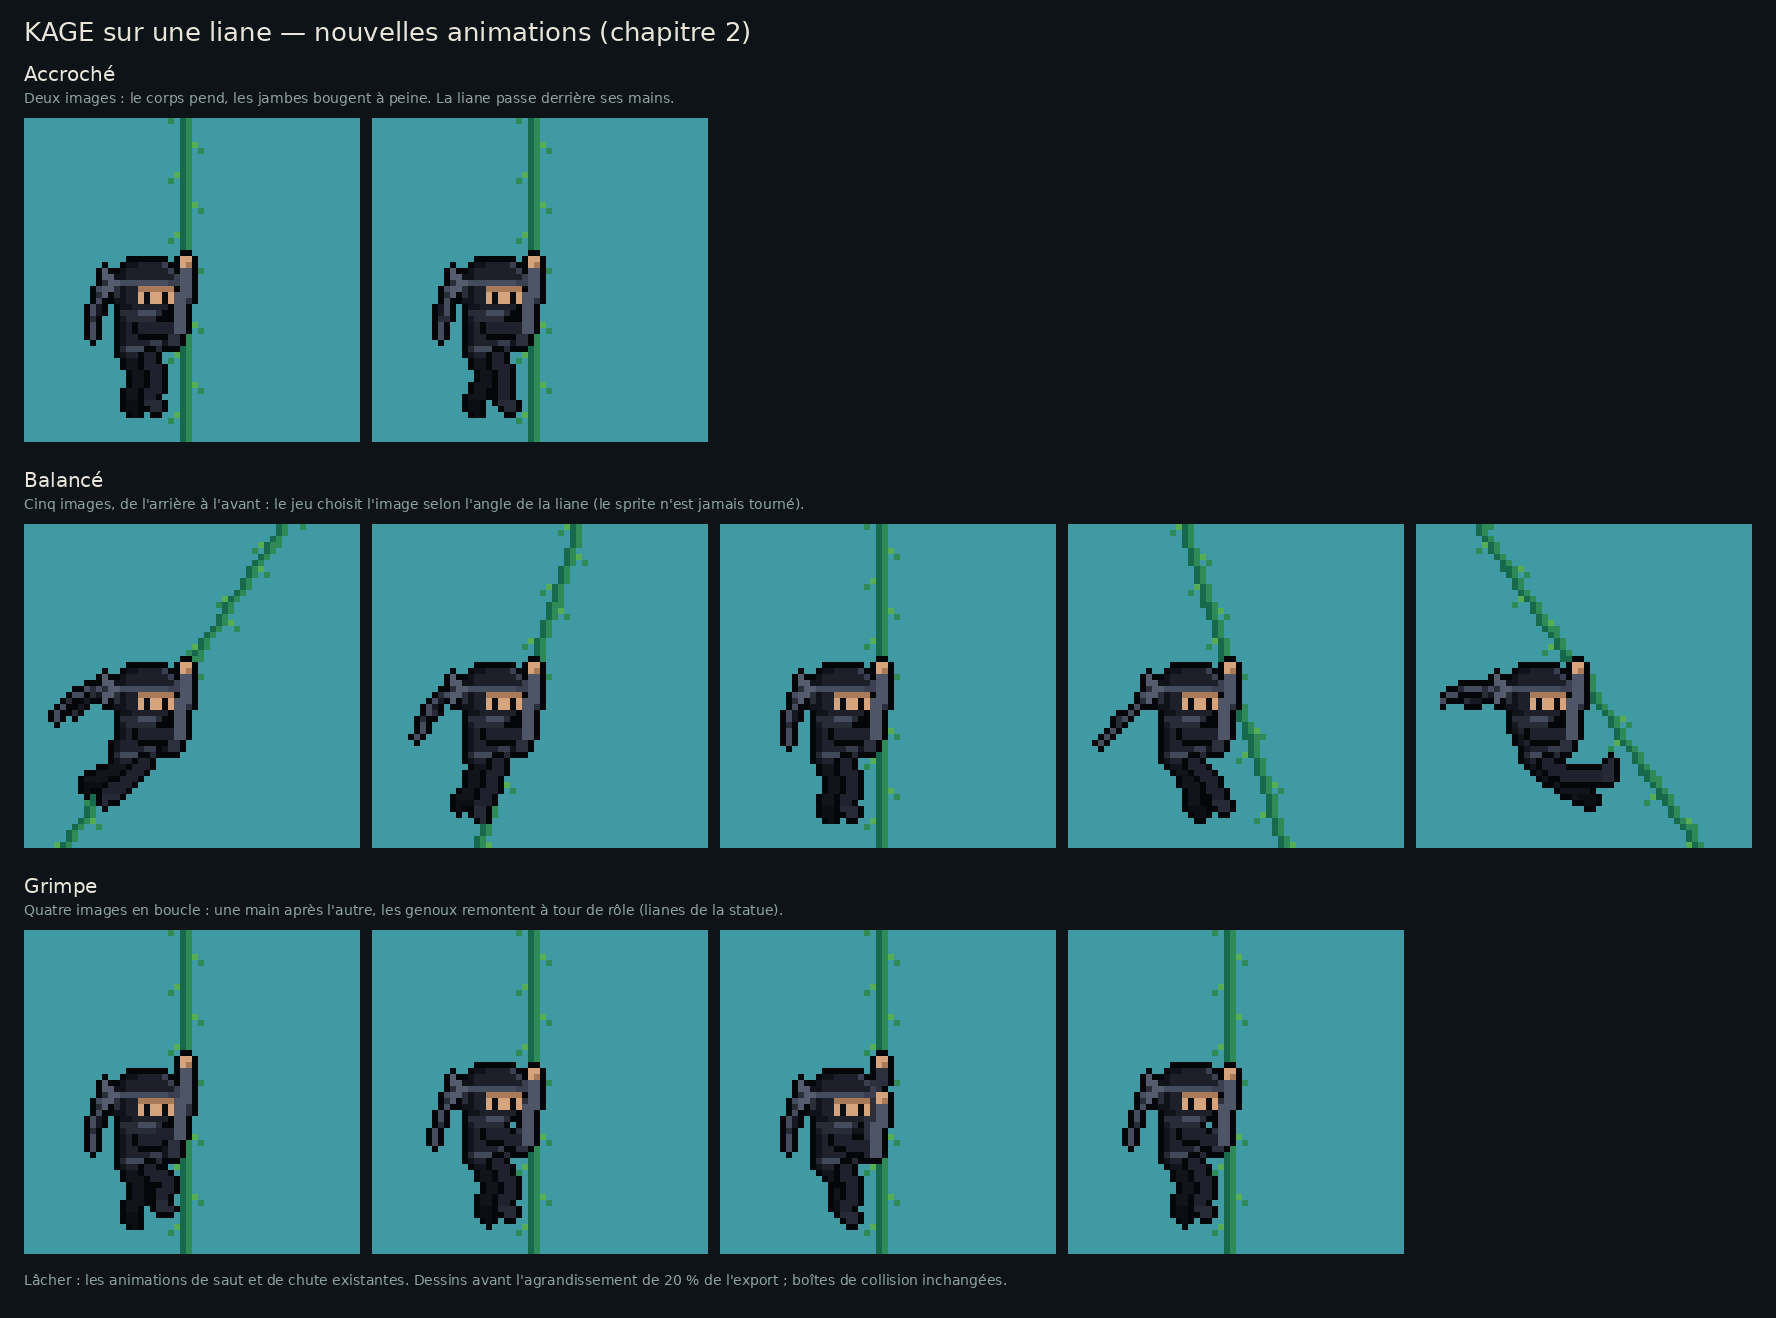
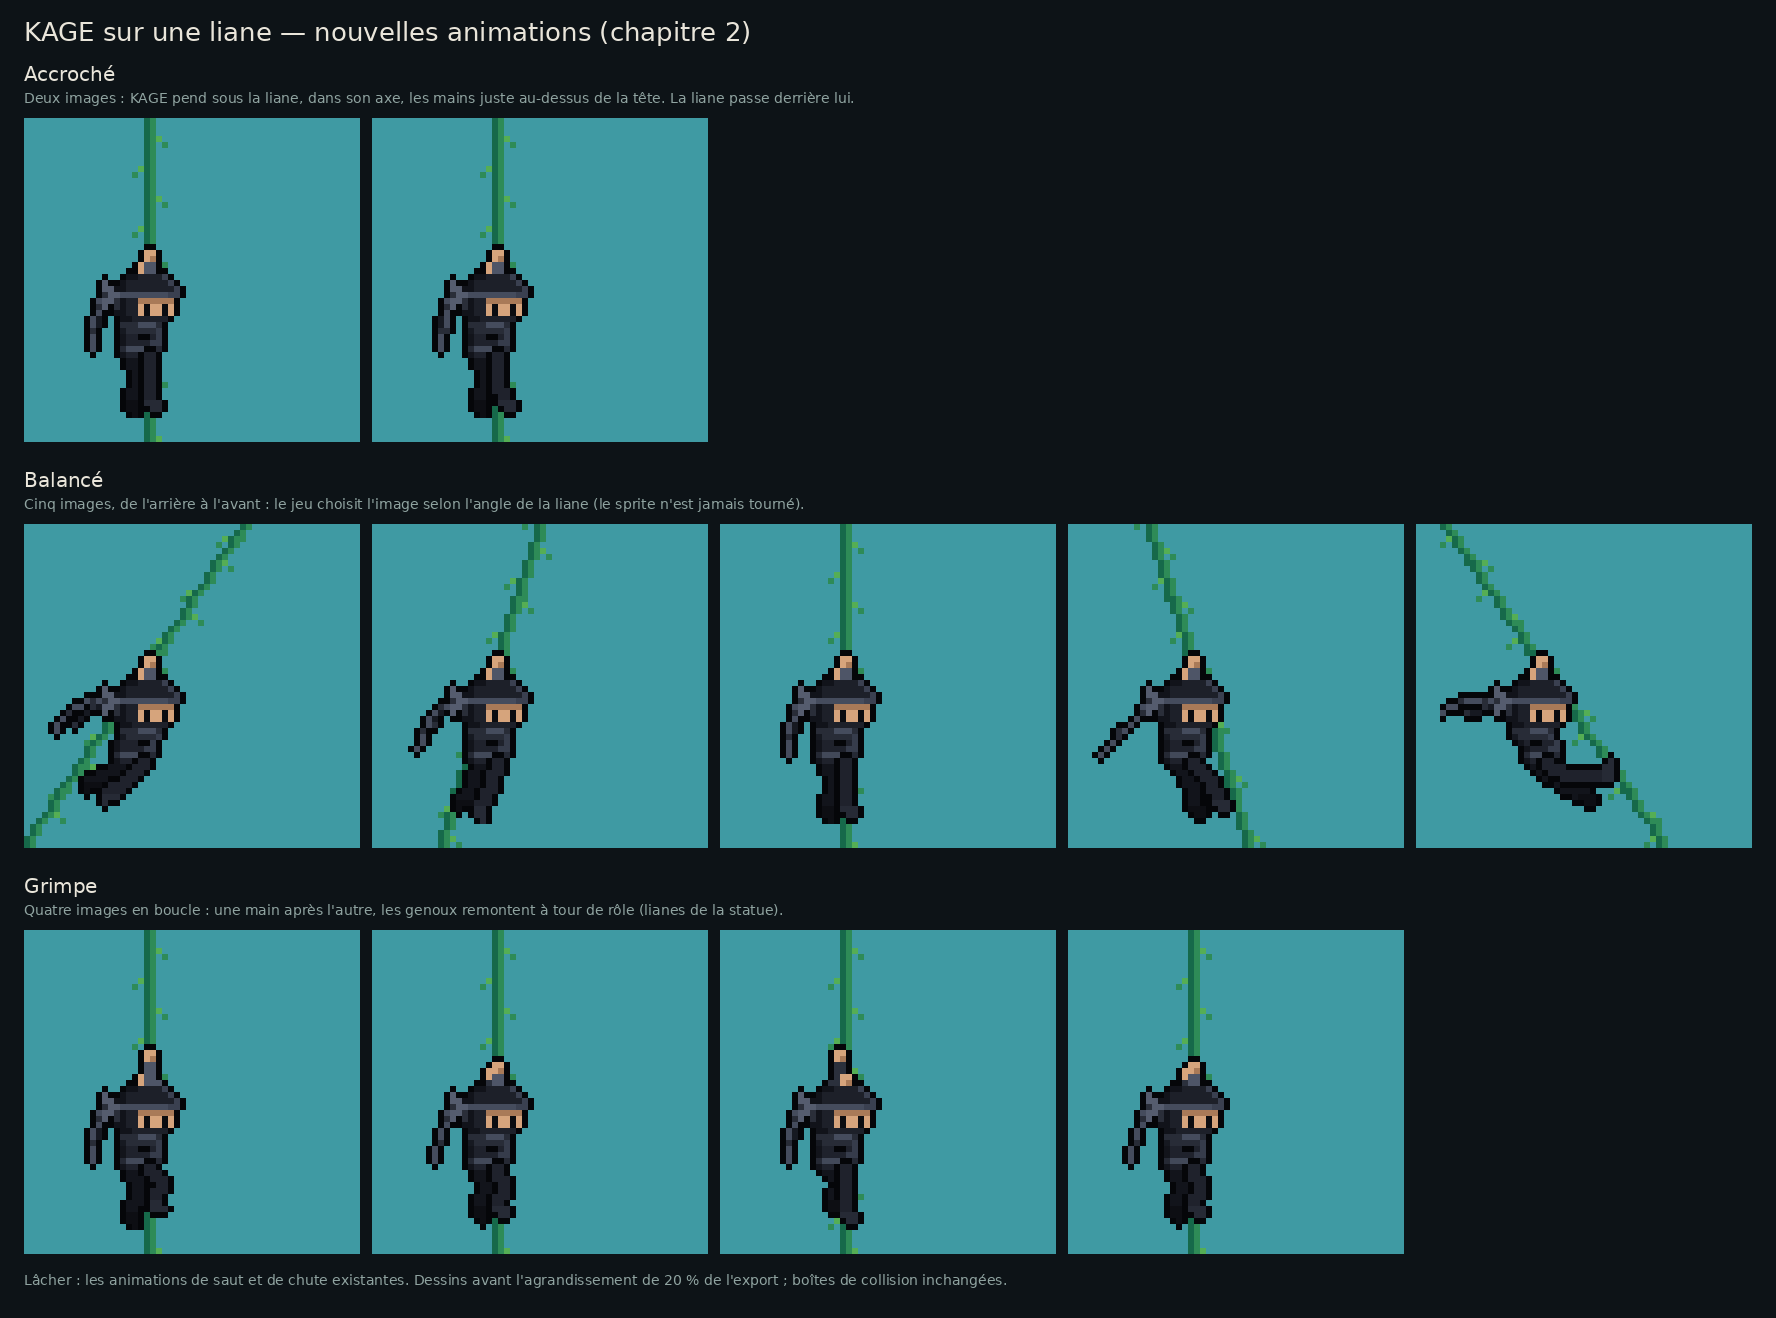
KAGE sur une liane : bras courts, corps dans l'axe de la liane
Retour de l'utilisateur : bras beaucoup trop longs, et KAGE semblait accroché
à côté de la liane. Il pend maintenant sous elle, dans son axe ; les deux
poings se posent l'un sur l'autre au ras de la capuche, la tête rentrée entre
les épaules. Planche régénérée.

Claude-Session: https://claude.ai/code/session_01A2iwx7tyNq6imnnZBx9Jxd

diff --git a/tools/kage_forge/vine.py b/tools/kage_forge/vine.py
@@ -1,29 +1,34 @@
 """KAGE sur une liane (chapitre 2) : accroché, balancé, grimpe.
 
 Poses proposées en planche de design AVANT intégration (règle de l'utilisateur) :
-elles ne sont pas encore dans ANIMS (art.py). La liane passe devant lui, à
-x = 22-23 dans la cellule ; ses deux mains la tiennent, la plus haute en (22, 5).
-Le jeu dessine la liane derrière les mains et fait pivoter le choix de l'image
-(balancé) selon l'angle du balancier : jamais de rotation du sprite.
+elles ne sont pas encore dans ANIMS (art.py).
+
+KAGE pend SOUS la liane, dans son axe : elle passe derrière lui, à x = 16-17
+dans la cellule ; ses deux mains la tiennent juste au-dessus de sa tête, la
+plus haute en (16, 4). Bras courts : on ne voit que ses deux poings, posés l'un
+sur l'autre au ras de la capuche (jamais de pointe au-dessus de la tête) ; la tête rentre de deux pixels entre les épaules, comme quand on est
+suspendu. Le jeu dessine la liane derrière lui et choisit l'image du balancé
+selon l'angle du balancier : jamais de rotation du sprite.
 """
 from art import F
 from rig import pose
 
-GRIP = (22, 5)          # point de la liane tenu par la main du haut (cellule 48x32)
+GRIP = (16, 4)          # point de la liane tenu par la main du haut (cellule 48x32)
+HEAD = dict(hx=10, hy=7)   # la tête rentrée entre les épaules
 
-# mains sur la liane : la main proche en haut, la main lointaine juste dessous
-HANDS = dict(near_arm=[(21, 16), (22, 5)], far_arm=[(20, 18), (22, 9)], far_hand="hand")
+# mains sur la liane, au-dessus de la tête : la main proche en haut, l'autre juste dessous
+HANDS = dict(near_arm=[(17, 10), (16, 4)], far_arm=[(14, 10), (15, 6)], near_behind=True, far_hand="hand")
 
 # --- accroché : le corps pend, les jambes se balancent à peine ---------------
 VINE_HANG = [
-    F(pose(torso="up", tx=12, ty=15, **HANDS,
-           near_leg=[(17, 25), (16, 28)], near_foot="point",
+    F(pose(torso="up", tx=12, ty=15, **HEAD, **HANDS,
+           near_leg=[(16, 25), (16, 28)], near_foot="point",
            far_leg=[(14, 25), (13, 28)], far_foot="down",
            tail_long=[(-2, 2), (-3, 5), (-3, 8), (-4, 11)],
            tail_short=[(-2, 2), (-2, 5), (-3, 7)])),
-    F(pose(torso="up", tx=12, ty=15, **HANDS,
-           near_leg=[(17, 25), (17, 28)], near_foot="point",
-           far_leg=[(14, 25), (12, 28)], far_foot="down",
+    F(pose(torso="up", tx=12, ty=15, **HEAD, **HANDS,
+           near_leg=[(16, 25), (17, 28)], near_foot="point",
+           far_leg=[(14, 25), (13, 28)], far_foot="down",
            tail_long=[(-2, 2), (-2, 5), (-3, 8), (-3, 11)],
            tail_short=[(-2, 2), (-3, 5), (-3, 7)])),
 ]
@@ -31,13 +36,13 @@ VINE_HANG = [
 # --- balancé : cinq images, de l'arrière (0) à l'avant (4), choisies par l'angle ---
 VINE_SWING = [
     # 0. tout en arrière : le corps traîne derrière les mains, jambes tendues vers l'arrière
-    F(pose(torso="lean", tx=11, ty=15, hx=10, hy=5, **HANDS,
+    F(pose(torso="lean", tx=11, ty=15, **HEAD, **HANDS,
            near_leg=[(12, 24), (9, 26)], near_foot="back",
            far_leg=[(9, 23), (6, 24)], far_foot="back",
            tail_long=[(-3, 0), (-6, 1), (-8, 3), (-10, 6)],
            tail_short=[(-3, 1), (-5, 3), (-7, 5)])),
     # 1. en arrière
-    F(pose(torso="up", tx=12, ty=15, **HANDS,
+    F(pose(torso="up", tx=12, ty=15, **HEAD, **HANDS,
            near_leg=[(15, 25), (13, 28)], near_foot="down",
            far_leg=[(12, 25), (10, 27)], far_foot="back",
            tail_long=[(-3, 1), (-5, 3), (-6, 6), (-7, 9)],
@@ -45,13 +50,13 @@ VINE_SWING = [
     # 2. à la verticale
     VINE_HANG[0],
     # 3. en avant : les jambes passent devant
-    F(pose(torso="up", tx=12, ty=15, **HANDS,
+    F(pose(torso="up", tx=12, ty=15, **HEAD, **HANDS,
            near_leg=[(19, 24), (20, 27)], near_foot="point",
            far_leg=[(16, 25), (16, 28)], far_foot="point",
            tail_long=[(-2, 2), (-4, 4), (-6, 6), (-8, 8)],
            tail_short=[(-2, 2), (-4, 4), (-6, 5)])),
     # 4. tout en avant : jambes lancées, buste en arrière, le foulard reste derrière
-    F(pose(torso="back", tx=12, ty=15, hx=10, hy=5, **HANDS,
+    F(pose(torso="back", tx=12, ty=15, **HEAD, **HANDS,
            near_leg=[(21, 23), (25, 23)], near_foot="flex",
            far_leg=[(19, 24), (23, 26)], far_foot="point",
            tail_long=[(-3, 0), (-6, 0), (-9, 1), (-11, 3)],
@@ -59,25 +64,25 @@ VINE_SWING = [
 ]
 
 # --- grimpe : une main après l'autre, les genoux remontent à tour de rôle ------
-UP = dict(near_arm=[(21, 15), (22, 3)], far_arm=[(20, 18), (22, 9)], far_hand="hand")
-MID = dict(near_arm=[(21, 16), (22, 5)], far_arm=[(20, 17), (22, 7)], far_hand="hand")
-DOWN = dict(near_arm=[(21, 18), (22, 9)], far_arm=[(20, 15), (22, 3)], far_hand="hand")
+UP = dict(near_arm=[(17, 10), (16, 2)], far_arm=[(14, 10), (15, 6)], near_behind=True, far_hand="hand")
+MID = dict(near_arm=[(17, 10), (16, 4)], far_arm=[(14, 10), (15, 5)], near_behind=True, far_hand="hand")
+DOWN = dict(near_arm=[(17, 10), (16, 6)], far_arm=[(14, 10), (15, 2)], near_behind=True, far_hand="hand")
 VINE_CLIMB = [
-    F(pose(torso="up", tx=12, ty=15, **UP,
-           near_leg=[(19, 23), (18, 26)], near_foot="tuck",
+    F(pose(torso="up", tx=12, ty=15, **HEAD, **UP,
+           near_leg=[(18, 23), (17, 26)], near_foot="tuck",
            far_leg=[(14, 25), (13, 28)], far_foot="down",
            tail_long=[(-2, 2), (-3, 5), (-3, 8), (-4, 11)], tail_short=[(-2, 2), (-2, 5), (-3, 7)])),
-    F(pose(torso="up", tx=12, ty=14, **MID,
-           near_leg=[(18, 24), (17, 27)], near_foot="point",
-           far_leg=[(15, 24), (14, 27)], far_foot="down",
+    F(pose(torso="up", tx=12, ty=15, **HEAD, **MID,
+           near_leg=[(17, 24), (16, 27)], near_foot="point",
+           far_leg=[(14, 24), (13, 27)], far_foot="down",
            tail_long=[(-2, 2), (-3, 5), (-4, 8), (-4, 12)], tail_short=[(-2, 2), (-3, 5), (-3, 8)])),
-    F(pose(torso="up", tx=12, ty=15, **DOWN,
-           near_leg=[(17, 25), (16, 28)], near_foot="point",
-           far_leg=[(16, 23), (15, 26)], far_foot="tuck",
+    F(pose(torso="up", tx=12, ty=15, **HEAD, **DOWN,
+           near_leg=[(16, 25), (16, 28)], near_foot="point",
+           far_leg=[(15, 23), (14, 26)], far_foot="tuck",
            tail_long=[(-2, 2), (-3, 5), (-3, 8), (-4, 11)], tail_short=[(-2, 2), (-2, 5), (-3, 7)])),
-    F(pose(torso="up", tx=12, ty=14, **MID,
-           near_leg=[(18, 24), (17, 27)], near_foot="point",
-           far_leg=[(15, 24), (14, 27)], far_foot="down",
+    F(pose(torso="up", tx=12, ty=15, **HEAD, **MID,
+           near_leg=[(17, 24), (16, 27)], near_foot="point",
+           far_leg=[(14, 24), (13, 27)], far_foot="down",
            tail_long=[(-2, 2), (-3, 5), (-4, 8), (-4, 12)], tail_short=[(-2, 2), (-3, 5), (-3, 8)])),
 ]
 

diff --git a/tools/kage_forge/vine_board.py b/tools/kage_forge/vine_board.py
@@ -70,7 +70,7 @@ def main(dest):
     d = ImageDraw.Draw(out)
     d.text((24, 16), "KAGE sur une liane — nouvelles animations (chapitre 2)", font=font(26), fill=INK)
     y = 62
-    y = row(d, out, y, "Accroché", "Deux images : le corps pend, les jambes bougent à peine. La liane passe derrière ses mains.", vine.VINE_HANG)
+    y = row(d, out, y, "Accroché", "Deux images : KAGE pend sous la liane, dans son axe, les mains juste au-dessus de la tête. La liane passe derrière lui.", vine.VINE_HANG)
     a = [0.6, 0.3, 0.0, -0.3, -0.6]
     y = row(d, out, y, "Balancé", "Cinq images, de l'arrière à l'avant : le jeu choisit l'image selon l'angle de la liane (le sprite n'est jamais tourné).", vine.VINE_SWING, a)
     y = row(d, out, y, "Grimpe", "Quatre images en boucle : une main après l'autre, les genoux remontent à tour de rôle (lianes de la statue).", vine.VINE_CLIMB)
